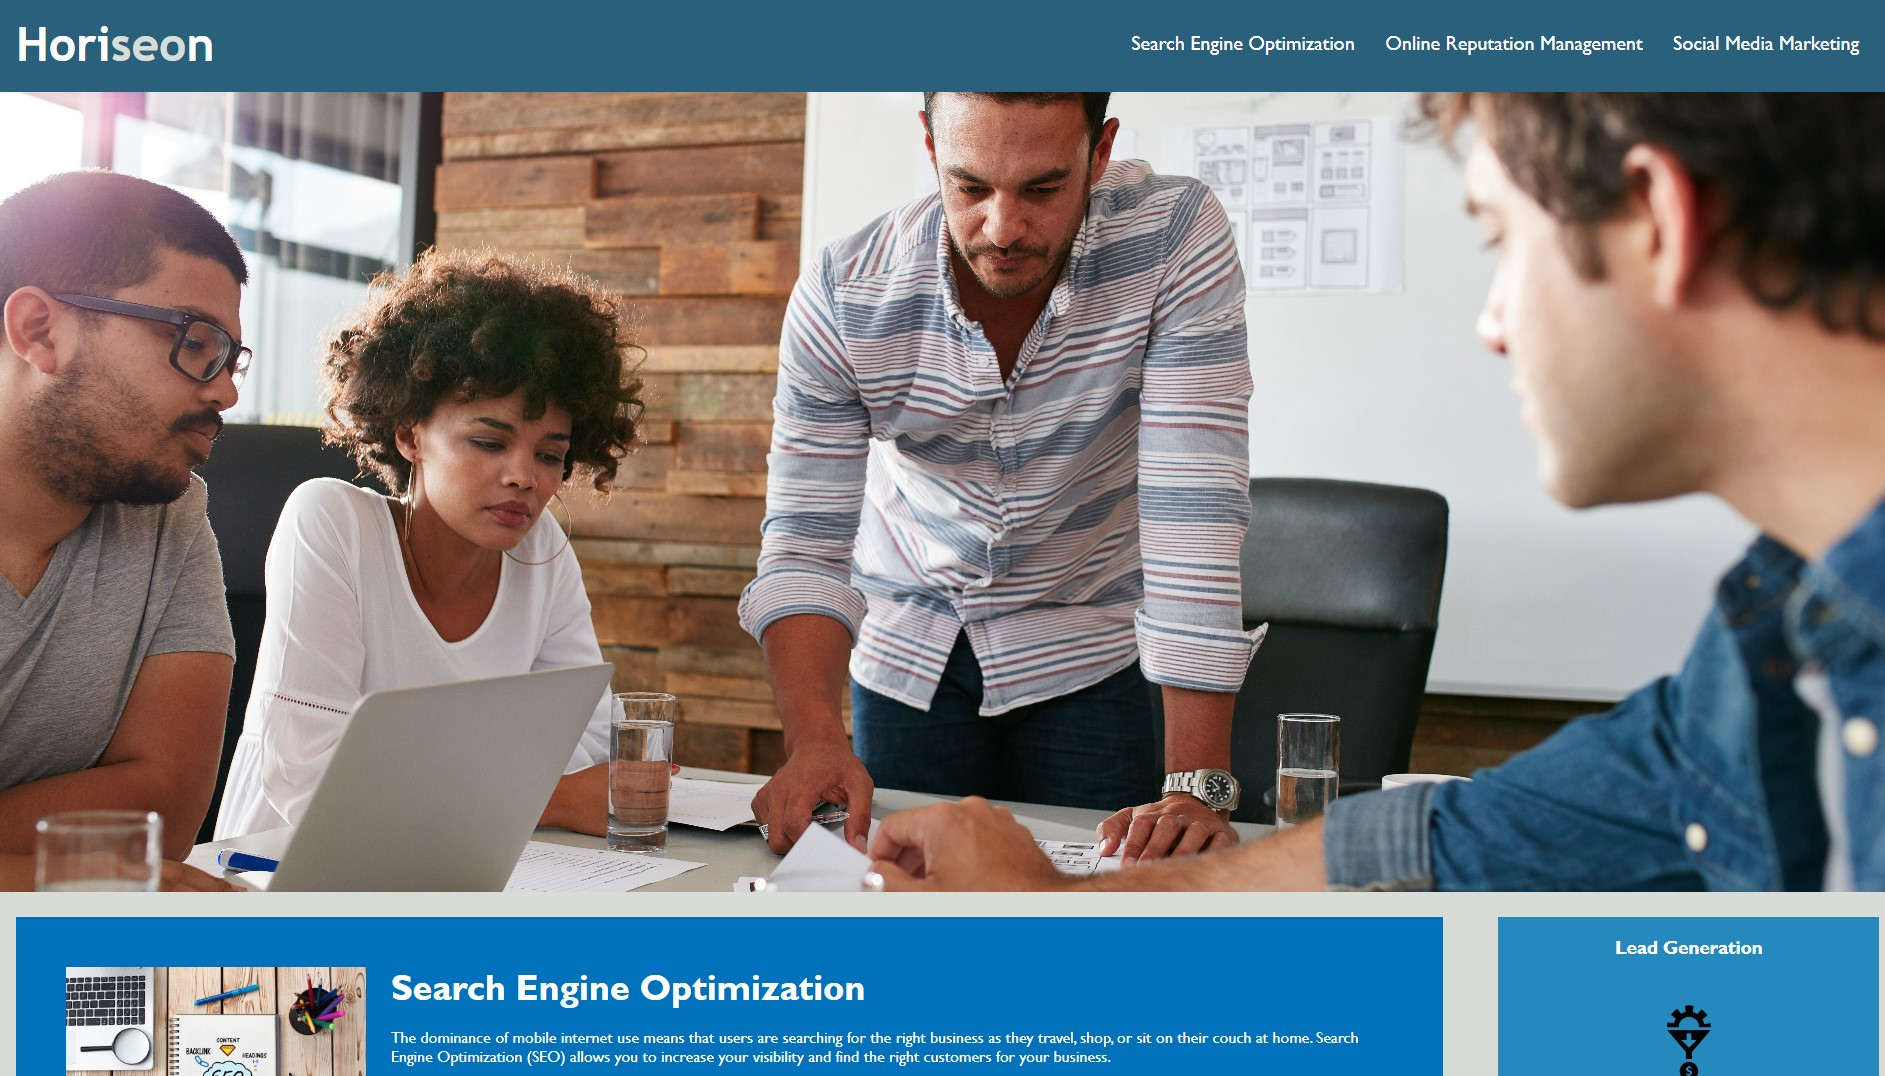
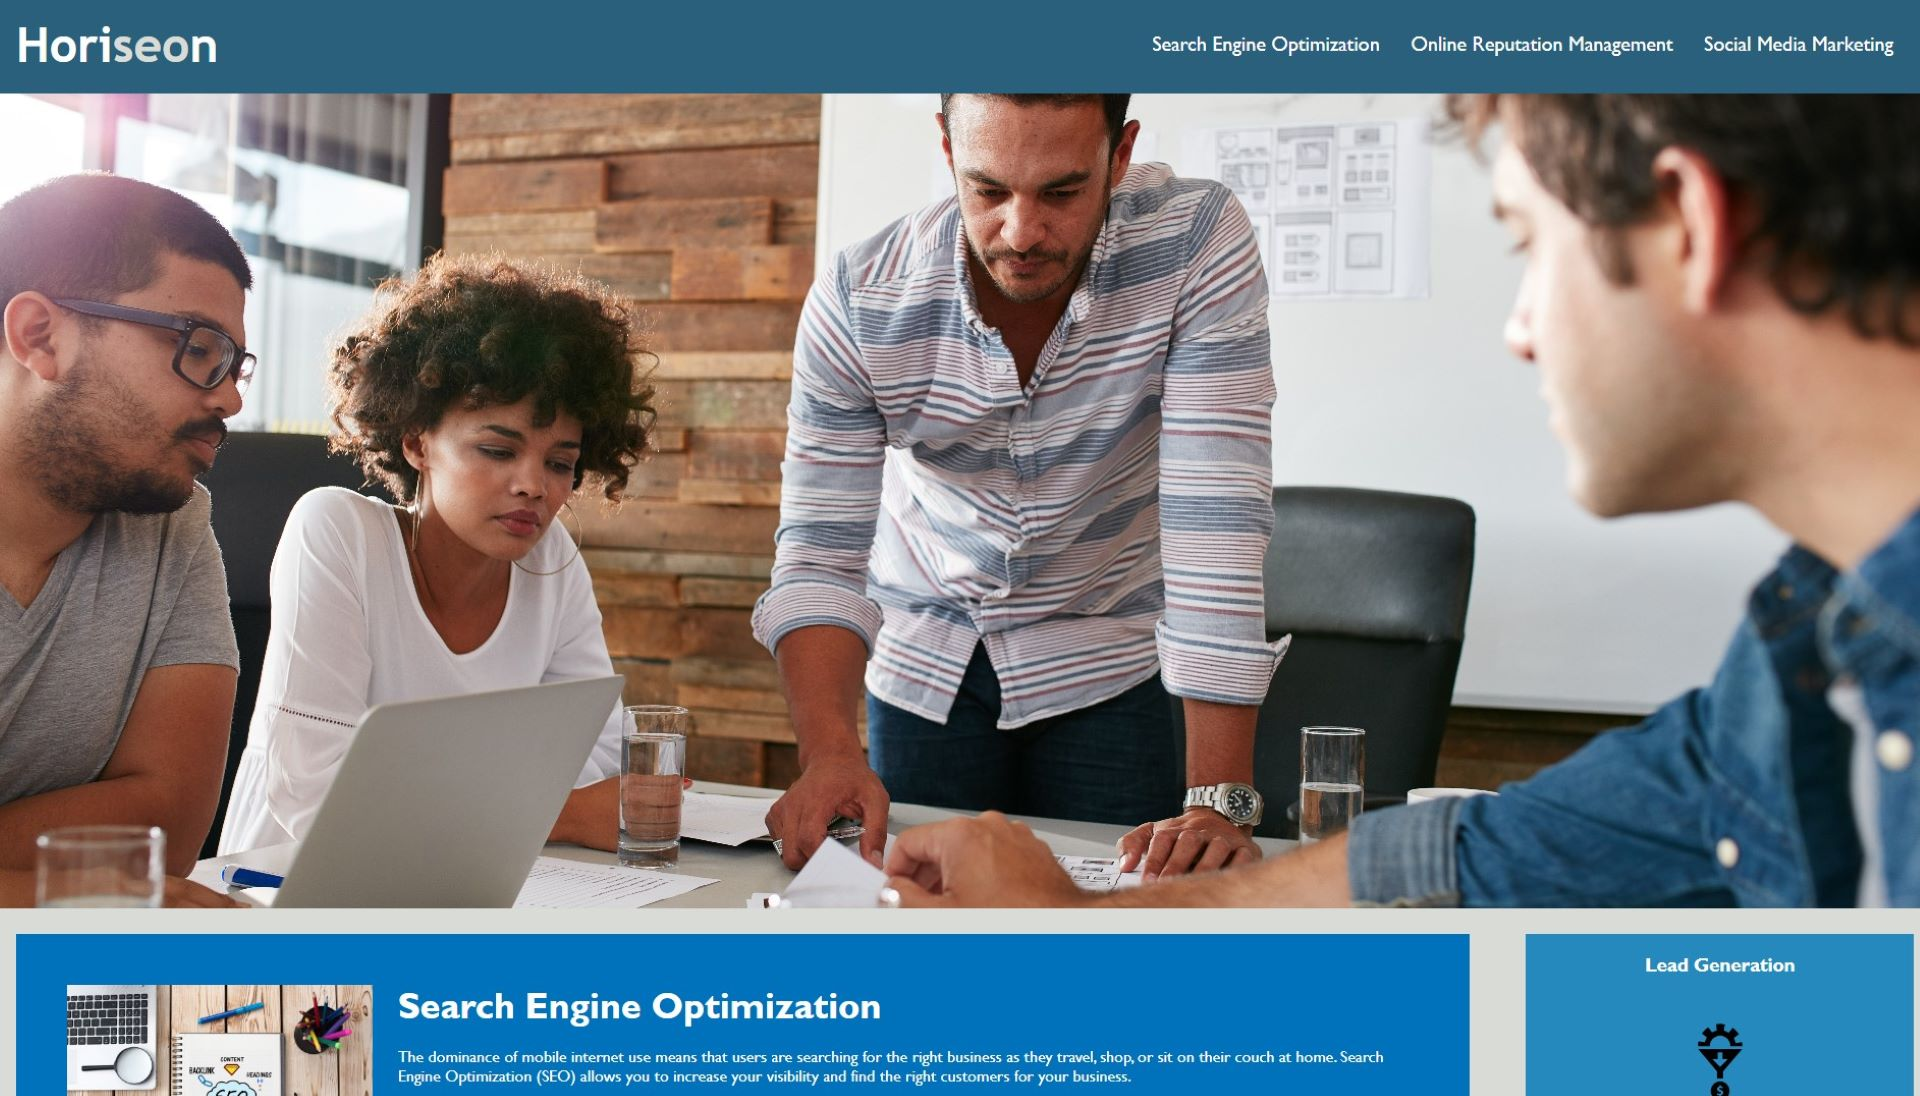
fixed image flex when screen size decreses

diff --git a/assets/css/style.css b/assets/css/style.css
@@ -1,6 +1,6 @@
 :root {
 --dark: #2d232e ;
---light: #f6f1d1 ;
+--font: #f6f1d1 ;
 --round: 20px;
 }
 body {
@@ -8,7 +8,7 @@ body {
 }
 header {
 background-color:var(--dark) ;
-color: var(--light);
+color: var(--font);
 padding: 10px;
 font-family: 'Courier New', Courier, monospace;
 border-radius: var(--round);
@@ -43,37 +43,73 @@ nav ul li {
     
 }
 nav a{
-    color: var(--light);
+    color: var(--font);
     text-decoration: none;
     font-size: 20px;
 }
 aside {
     background-color: green;
     padding: 30px;
+    margin-top: 10px;
+    margin-bottom: 10px;
+    border-radius: var(--round);
+
 }
 aside img {
     width: auto;
     height: 250px;
 }
 .my-work{
-    margin-left: 200px;
-    margin-right: 200px;
+    padding-left: 5%;
+    padding-right: 5%;
+    display: flex;
+    flex-wrap: wrap;
+    min-width: 0;
+    min-height: 0;
+
 }
 .my-work img {
-width:1000px;
-height: 550px;
+
+display: flex;
+width: 100%;
+height: auto;
+margin-bottom: 10px;
+
+
+}
+.work {
+    min-width: 0;
+    min-height: 0;
+   
+
+}
+.work img {
+    width: 75%;
+    height: auto;
 }
 h2 {
     background-color: var(--dark);
+    color: var(--font);
     padding: 20px;
 }
 h3 { background-color: var(--dark);
-padding: 20px;}
-
+padding: 20px;
+margin: 0;
+margin-top: 10px;
+border-start-start-radius: var(--round);
+border-start-end-radius: var(--round);
+display: flex;
+border: white;
+border-style: solid;
+color: var(--font);
+}
+.work h3{
+    background-color: red;
+}
 
 footer {
     background-color: var(--dark);
-    color: var(--light);
+    color: var(--font);
     border-radius:var(--round);
     padding: 20px;
 }
@@ -82,3 +118,17 @@ footer p {
     margin-right: 300px;
     display: inline;
 }
+@media screen and (max-width: 768px) {
+    main {
+        padding: 0;
+        margin: 0;
+        flex-direction: column;
+        
+    }
+    
+    nav {
+      flex-direction: column;
+      padding: 0;
+      margin: 0;
+    }
+  }

diff --git a/index.html b/index.html
@@ -28,24 +28,24 @@
         <img src="assets/images/me.jpg">
         <p> Hello im Adam Smart</p>
        </aside>
- <section>
+ 
        <div id="my-work" class="my-work">
-
-            <div class="work"></div>
+        <section class="big image">
             <h3> Horiseon</h3>
             <a href="https://adam-smart.github.io/week-1-code-refactor-challenge/"><img src="assets/images/work-week-1.jpg"></a>
+        </section>
 
-            <div class="work"></div>
+        <section class="work">
             <h3> Pre-work</h3>
-            <a href="https://adam-smart.github.io/prework-study-guide/"> <img src="assets/images/pre-work.jpg"></a>
-            
+            <a href="https://adam-smart.github.io/prework-study-guide/"><img src="assets/images/pre-work.png"></a>
+        </section>
 
-            <div class="work"></div>
+        <section class="work">
             <h3> Image 3</h3>
             <img src="assets/images/Place holder.jpg">
+        </section>
 
         </div>
-    </section>
     </main>
 
     <footer id="contact" class="contact">
